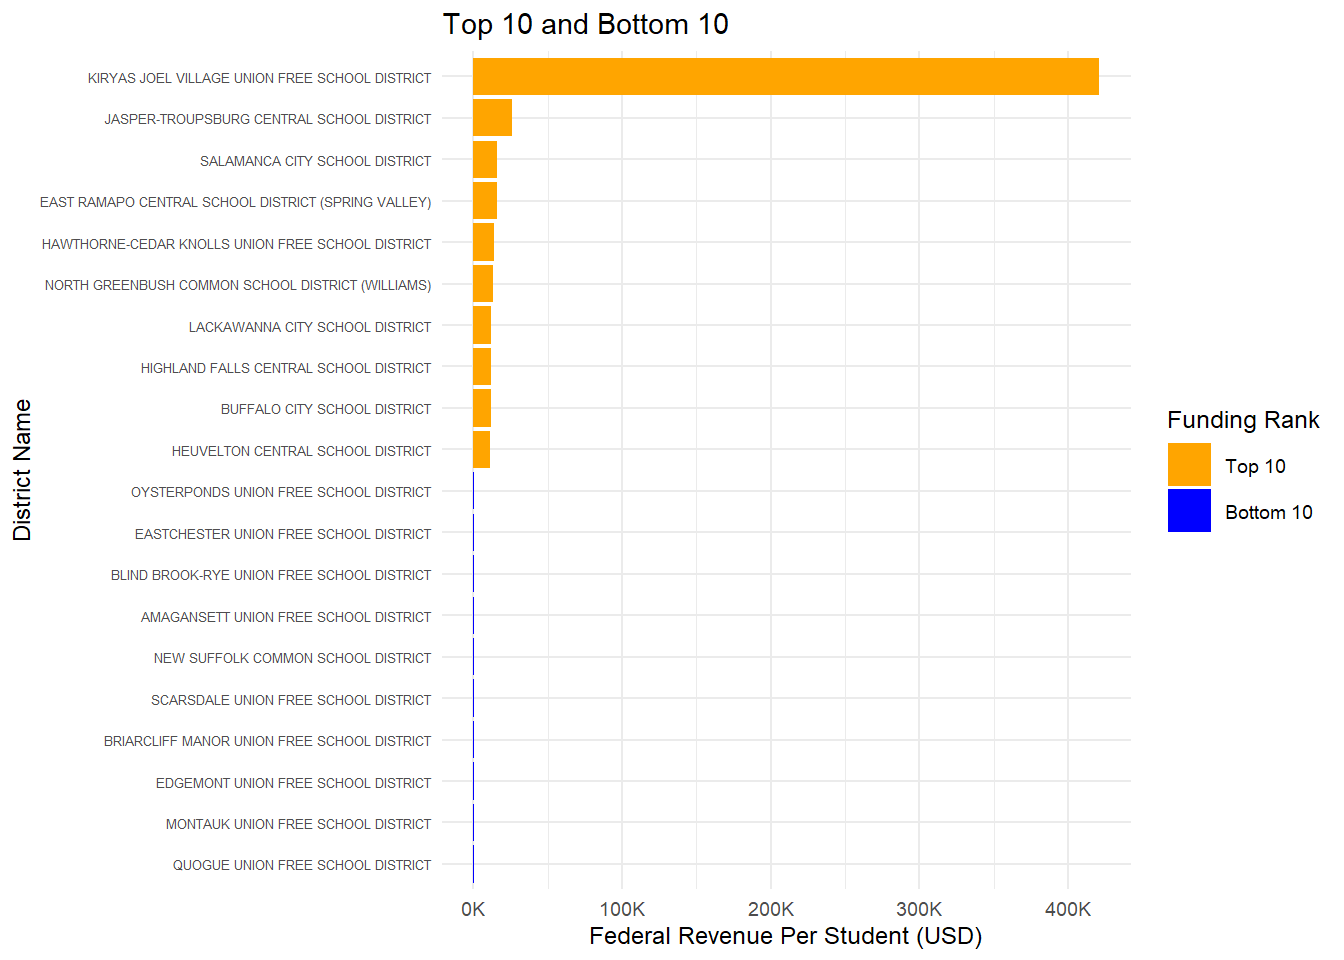
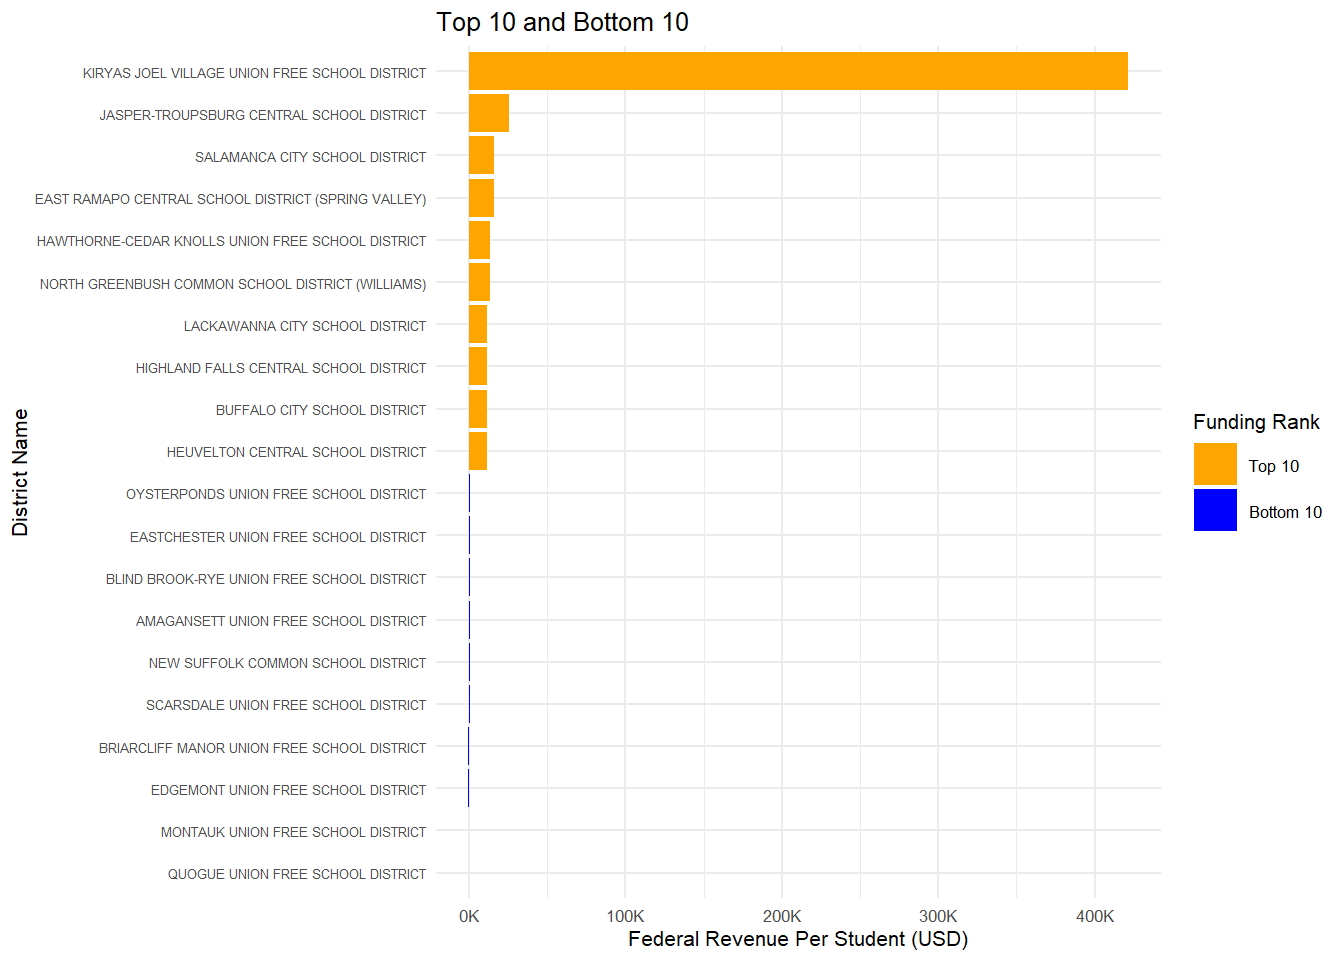
update

diff --git a/docs/IndividualFinalProject.html b/docs/IndividualFinalProject.html
@@ -812,7 +812,7 @@ pre > code.sourceCode > span > a:first-child::before { text-decoration: underlin
 <span id="cb6-32"><a href="#cb6-32" aria-hidden="true" tabindex="-1"></a>    <span class="at">y =</span> <span class="st">"Federal Revenue Per Student (USD)"</span>,</span>
 <span id="cb6-33"><a href="#cb6-33" aria-hidden="true" tabindex="-1"></a>    <span class="at">fill =</span> <span class="st">"Funding Rank"</span></span>
 <span id="cb6-34"><a href="#cb6-34" aria-hidden="true" tabindex="-1"></a>  ) <span class="sc">+</span></span>
-<span id="cb6-35"><a href="#cb6-35" aria-hidden="true" tabindex="-1"></a>  <span class="fu">theme_minimal</span>(<span class="at">base_size =</span> <span class="dv">9</span>) <span class="sc">+</span></span>
+<span id="cb6-35"><a href="#cb6-35" aria-hidden="true" tabindex="-1"></a>  <span class="fu">theme_minimal</span>(<span class="at">base_size =</span> <span class="dv">8</span>) <span class="sc">+</span></span>
 <span id="cb6-36"><a href="#cb6-36" aria-hidden="true" tabindex="-1"></a>  <span class="fu">theme</span>(<span class="at">axis.text.y =</span> <span class="fu">element_text</span>(<span class="at">size =</span> <span class="dv">5</span>))</span></code><button title="Copy to Clipboard" class="code-copy-button"><i class="bi"></i></button></pre></div>
 </details>
 <div class="cell-output-display">
@@ -869,6 +869,8 @@ pre > code.sourceCode > span > a:first-child::before { text-decoration: underlin
 </div>
 </div>
 <p><strong>Description:</strong> This visualization compares the top 10 and bottom 10 school districts based on state revenue per student, using filtered data that excludes any district reporting zero or missing revenue. Each bar represents per-student state funding, formatted in thousands for clarity. The chart offers a clear contrast between districts receiving substantial support from state budgets and those with the least assistance.</p>
+<p><strong>Key Observation</strong></p>
+<p><strong>Kiryas Joel Village Union Free School District</strong> consistently stands out as an outlier with significantly higher revenue per student from state, federal, and local sources compared to other districts. This elevated funding reflects the district’s unique educational mission serving a close-knit community with specific religious and cultural needs. The district provides specialized services and programs, including extensive special education support, which contribute to higher per-student costs. Additionally, its smaller size means fixed operational expenses are spread over fewer students, increasing per-student revenue figures. Local community support and relevant policies further contribute to the district’s distinct funding profile. Overall, Kiryas Joel’s funding pattern highlights the tailored educational resources necessary to meet the needs of its unique population.</p>
 <section id="new-york-state-education-department-nysed" class="level2">
 <h2 class="anchored" data-anchor-id="new-york-state-education-department-nysed">New York State Education Department (NYSED)</h2>
 <p>In addition to financial data, I incorporated student achievement data from the <strong><em>New York State Education Department (NYSED)</em></strong>, the agency responsible for setting statewide academic standards and assessing school performance across New York. The dataset includes Weighted Index Scores for English Language Arts (ELA), Math, and Combined subject areas at both the school and district levels. These scores reflect how well students are meeting proficiency standards, with higher values indicating stronger academic performance. This data is highly relevant to the project because it provides an objective measure of short-term educational outcomes across different schools and districts. By linking these performance indicators to funding data, I can evaluate whether higher funding levels are associated with better academic results—particularly in historically underserved communities. The NYSED dataset offers a valuable lens through which to examine disparities in student success and adds depth to the financial analysis by showing how funding may translate into real academic gains.</p>
